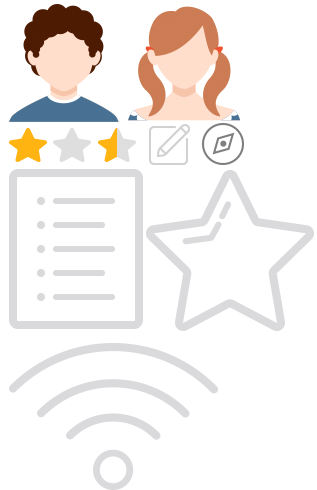
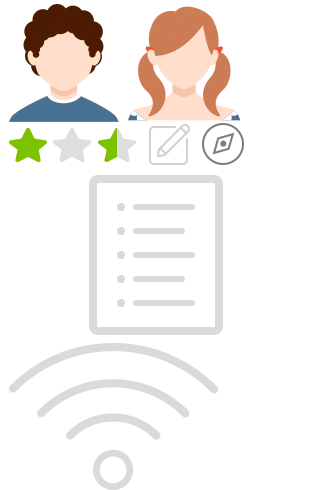
UI  用户中心联调

Changed region(s): [[0.0284, 0.2449, 0.9937, 0.7041], [0.1136, 0.398, 0.142, 0.5204], [0.1136, 0.551, 0.142, 0.6122]]

diff --git a/assets/css/user.css b/assets/css/user.css
@@ -170,11 +170,10 @@ i, em {
   display: block;
   font-size: .32rem;
   border-radius: .04rem;
-  height: .96rem;
-  line-height: .96rem;
+  height: .88rem;
+  line-height: .88rem;
   text-align: center;
   color: #fff;
-  font-weight: 600;
   background-color: #7bc300;
   margin: .96rem .4rem 0;
 }
@@ -396,8 +395,8 @@ i, em {
 
 .user_top {
   width: 100%;
-  height: 3.72rem;
-  padding-top: 1.36rem;
+  height: 3.18rem;
+  padding-top: .7rem;
   background: url(../images/ui/icon_person.png) no-repeat;
   background-position: -43px -154px;
 }
@@ -438,12 +437,12 @@ i, em {
 }
 
 .order {
-  width: 1.34rem;
+  width: 1.8rem;
   height: 1.6rem;
-  background-position: 4% 51%;
+  background-position: 48% 53%;
   position: absolute;
   left: 50%;
-  margin-left: -.7rem;
+  margin-left: -.9rem;
   top: 0;
 }
 
@@ -459,12 +458,12 @@ i, em {
 
 /*关于我们*/
 .asiatravel_wrap {
-  margin-top: .4rem;
+  margin-top: .6rem;
   text-align: center;
 }
 
 .asiatravel_wrap > img {
-  width: 2rem;
+  width: 1.4rem;
 }
 
 .asiatravel_wrap h4 {
@@ -536,7 +535,7 @@ i, em {
   left: 0;
   width: auto;
   height: auto;
-  z-index: 99;
+  z-index: 50;
   overflow: auto;
   -webkit-overflow-scrolling: touch;
   -webkit-transform: translate3d(0, 0, 0);
@@ -690,19 +689,18 @@ i, em {
   position: absolute;
   top: .2rem;
   right: .28rem;
+  width: 1.5rem;
   height: .66rem;
-  width: auto;
   border: 1px solid #7bc300;
   border-radius: .04rem;
   -webkit-border-radius: .04rem;
-  overflow: hidden;
   background-color: #fff;
   color: #7bc300;
 }
 
 .info_sex_tab .per_man {
   float: left;
-  width: .78rem;
+  width: .76rem;
   height: .62rem;
   line-height: .64rem;
   text-align: center;
@@ -842,7 +840,7 @@ i, em {
 
 .order_div {
   background-color: #fff;
-  border-bottom: 2px solid #e6e6e6;
+  border-bottom: 1px solid #e6e6e6;
 }
 
 .all_order_title {
@@ -886,7 +884,7 @@ i, em {
 .order_Amount {
   float: right;
   margin-top: .2rem;
-  color: red;
+  color: #fb7530;
 }
 
 .info_title {
@@ -909,7 +907,7 @@ i, em {
   line-height: .64rem;
   border: 1px solid #7bc300;
   color: #7bc300;
-  border-radius: .04rem;
+  border-radius: 4px;
 }
 
 .paybtn:hover {
@@ -927,7 +925,7 @@ i, em {
   color: #7bc300;
   text-align: center;
   line-height: 31px;
-  border-radius: 5px;
+  border-radius: 4px;
   border: 1px solid #7bc300;
 }
 
@@ -1074,7 +1072,7 @@ i, em {
 .user_add {
   width: .4rem;
   height: .4rem;
-  margin: .32rem .2rem 0 0;
+  margin: .225rem .2rem 0 0;
   vertical-align: top;
   background-position: -4.28rem -.16rem;
 }
@@ -1191,6 +1189,9 @@ i, em {
 /*国籍选择结束*/
 
 /*个人信息页出生日期*/
+#common-msg >em{
+  font-size: .24rem;
+}
 .user_it {
   width: 1rem;
   height: 1rem;
@@ -1198,7 +1199,9 @@ i, em {
   border-radius: 50%;
   border: 1px solid #e6e6e6;
 }
-
+.user_person_mar{
+  padding-bottom: 1rem;
+}
 .user_info_top {
   padding: .2rem .3rem .2rem .4rem;
   border-bottom: 1px solid #e6e6e6;
@@ -1274,6 +1277,7 @@ i, em {
 #common-msg em {
   float: right;
   margin-right: .4rem;
+  color: #999;
 }
 
 .open_msg {

diff --git a/assets/index.html b/assets/index.html
@@ -51,23 +51,23 @@
       <!--column开始-->
       <div class="column_wrap clearfix">
         <div class="adaptive_item">
-          <a href="./hotel/index.html" title="Hotels Here"><img class="res_image" src="images/index/hotel_guide.png" alt="img">
+          <a href="./hotel/index.html" title="Hotels Here"><img class="res_image" src="./images/index/hotel_guide.png" alt="img">
           <span class="center_text">酒店</span></a>
         </div>
         <div class="adaptive_item">
-          <a href="./flight/f_index.html" title="Flights Goes Here"> <img class="res_image" src="./images/flights.png" alt="img">
+          <a href="./flight/f_index.html" title="Flights Goes Here"> <img class="res_image" src="./images/index/flights.png" alt="img">
           <span class="center_text">机票</span></a>
         </div>
         <div class="adaptive_item">
-          <a href="./scenic/index.html" title="Attractions Here"> <img class="res_image" src="images/index/scenic_guide.png" alt="img">
+          <a href="./scenic/index.html" title="Attractions Here"> <img class="res_image" src="./images/index/scenic_guide.png" alt="img">
           <span class="center_text">景点</span></a>
         </div>
         <div class="adaptive_item">
-          <a href="hotel_flight_tour/index.html" title="Hotels flights attractions Here"> <img class="res_image" src="images/index/fht_guide.png" alt="img">
+          <a href="hotel_flight_tour/index.html" title="Hotels flights attractions Here"> <img class="res_image" src="./images/index/fht_guide.png" alt="img">
           <span class="center_text">自由行</span></a>
         </div>
         <div class="adaptive_item">
-          <a href="tour/index.html" title="Hotels attractions Here"> <img class="res_image" src="images/index/tour_guide.png" alt="img">
+          <a href="tour/index.html" title="Hotels attractions Here"> <img class="res_image" src="./images/index/tour_guide.png" alt="img">
           <span class="center_text">酒+景</span></a>
         </div>
       </div>

diff --git a/assets/user/user-perInfo.html b/assets/user/user-perInfo.html
@@ -38,7 +38,7 @@
         <h3>个人资料</h3>
       </div>
 			<!-- Page Content-->
-			<div id="content" class="content">
+			<div id="content" class="content user_person_mar">
 				<div id="infolist" class="user_info_top clearfix">
           <span class="fl">头像</span>
 					<img id="userIcon" src="../images/user/photo-man.png" class="user_it fr"/>
@@ -86,7 +86,7 @@
 				<li id="changename" style="display: none;">
 					<form id="nickForm" action="user-perInfo.html" method="get">
 						<div class="u_name">
-							<input id="name" name="name" type="text" value="" maxlength="20" autofocus="autofocus"/>
+							<input id="name" name="name" placeholder="请输入用户昵称" type="text" value="" maxlength="20" autofocus="autofocus"/>
 							<b class="icon_person name_close"></b>
 						</div>
 						<div class="name_text">4-20个字符，可由中英文字母，数字、“_”组成。</div>

diff --git a/assets/user/scripts/user-logined.js b/assets/user/scripts/user-logined.js
@@ -72,7 +72,7 @@
           userIcon.src = "../images/user/photo-man.png";
         } else {
           user_sex.className = "icon open-sexw";
-          userIcon.src = "../images/ui/photo-woman.png";
+          userIcon.src = "../images/user/photo-man.png";
         }
       }
     }
@@ -121,10 +121,10 @@
   //设置里的消息开关
   function ifOpen(){
     var b = window.event.srcElement;
-    if(b.className == "icon set-chose1"){
-      b.className = "icon set-chose2";
+    if(b.className == "icon set_chose1"){
+      b.className = "icon set_chose2";
     }else{
-      b.className = "icon set-chose1";
+      b.className = "icon set_chose1";
     }
   }
 

diff --git a/assets/user/user-login.html b/assets/user/user-login.html
@@ -95,7 +95,7 @@
 							</div>
             <div class="login_input">
               <b class="icon_person login_pass"></b>
-								<input id="verify" type="password" value="" placeholder="输入验证码" data-type="code">
+								<input id="verify" type="text" value="" placeholder="输入验证码" data-type="code">
               <b class="icon login_clear get-code-del"></b>
               <div id="get_code" class="regist-code">获取验证码	</div>
 								</div>

diff --git a/assets/styles/reset.css b/assets/styles/reset.css
@@ -194,7 +194,7 @@ a {
   left: 50%;
   top: 50%;
   background-image: url(../images/loading.gif);
-  background-size: 64px 64px;
+  background-size: 32px 32px;
   background-repeat: no-repeat;
   background-position: center;
   margin: -125px 0 0 -125px;
@@ -224,7 +224,7 @@ a {
   pointer-events: all;
   z-index: 99;
   background-color: #fcfcfc;
-  opacity: .95;
+  /*opacity: .95;*/
   box-shadow: 0 1px 1px #e6e6e6;
 }
 

diff --git a/assets/css/index.css b/assets/css/index.css
@@ -212,7 +212,7 @@ body {
 }
 
 a.foot-homes, a.foot-users {
-  color: #ffb413;
+  color: #7bc300;
 }
 
 .foot-home i {
@@ -286,7 +286,7 @@ a.foot-homes, a.foot-users {
 }
 
 .menu_active {
-  color: #ffb413 !important;
+  color: #7bc300 !important;
   border-bottom: .08rem solid #ffb500 !important;
 }
 
